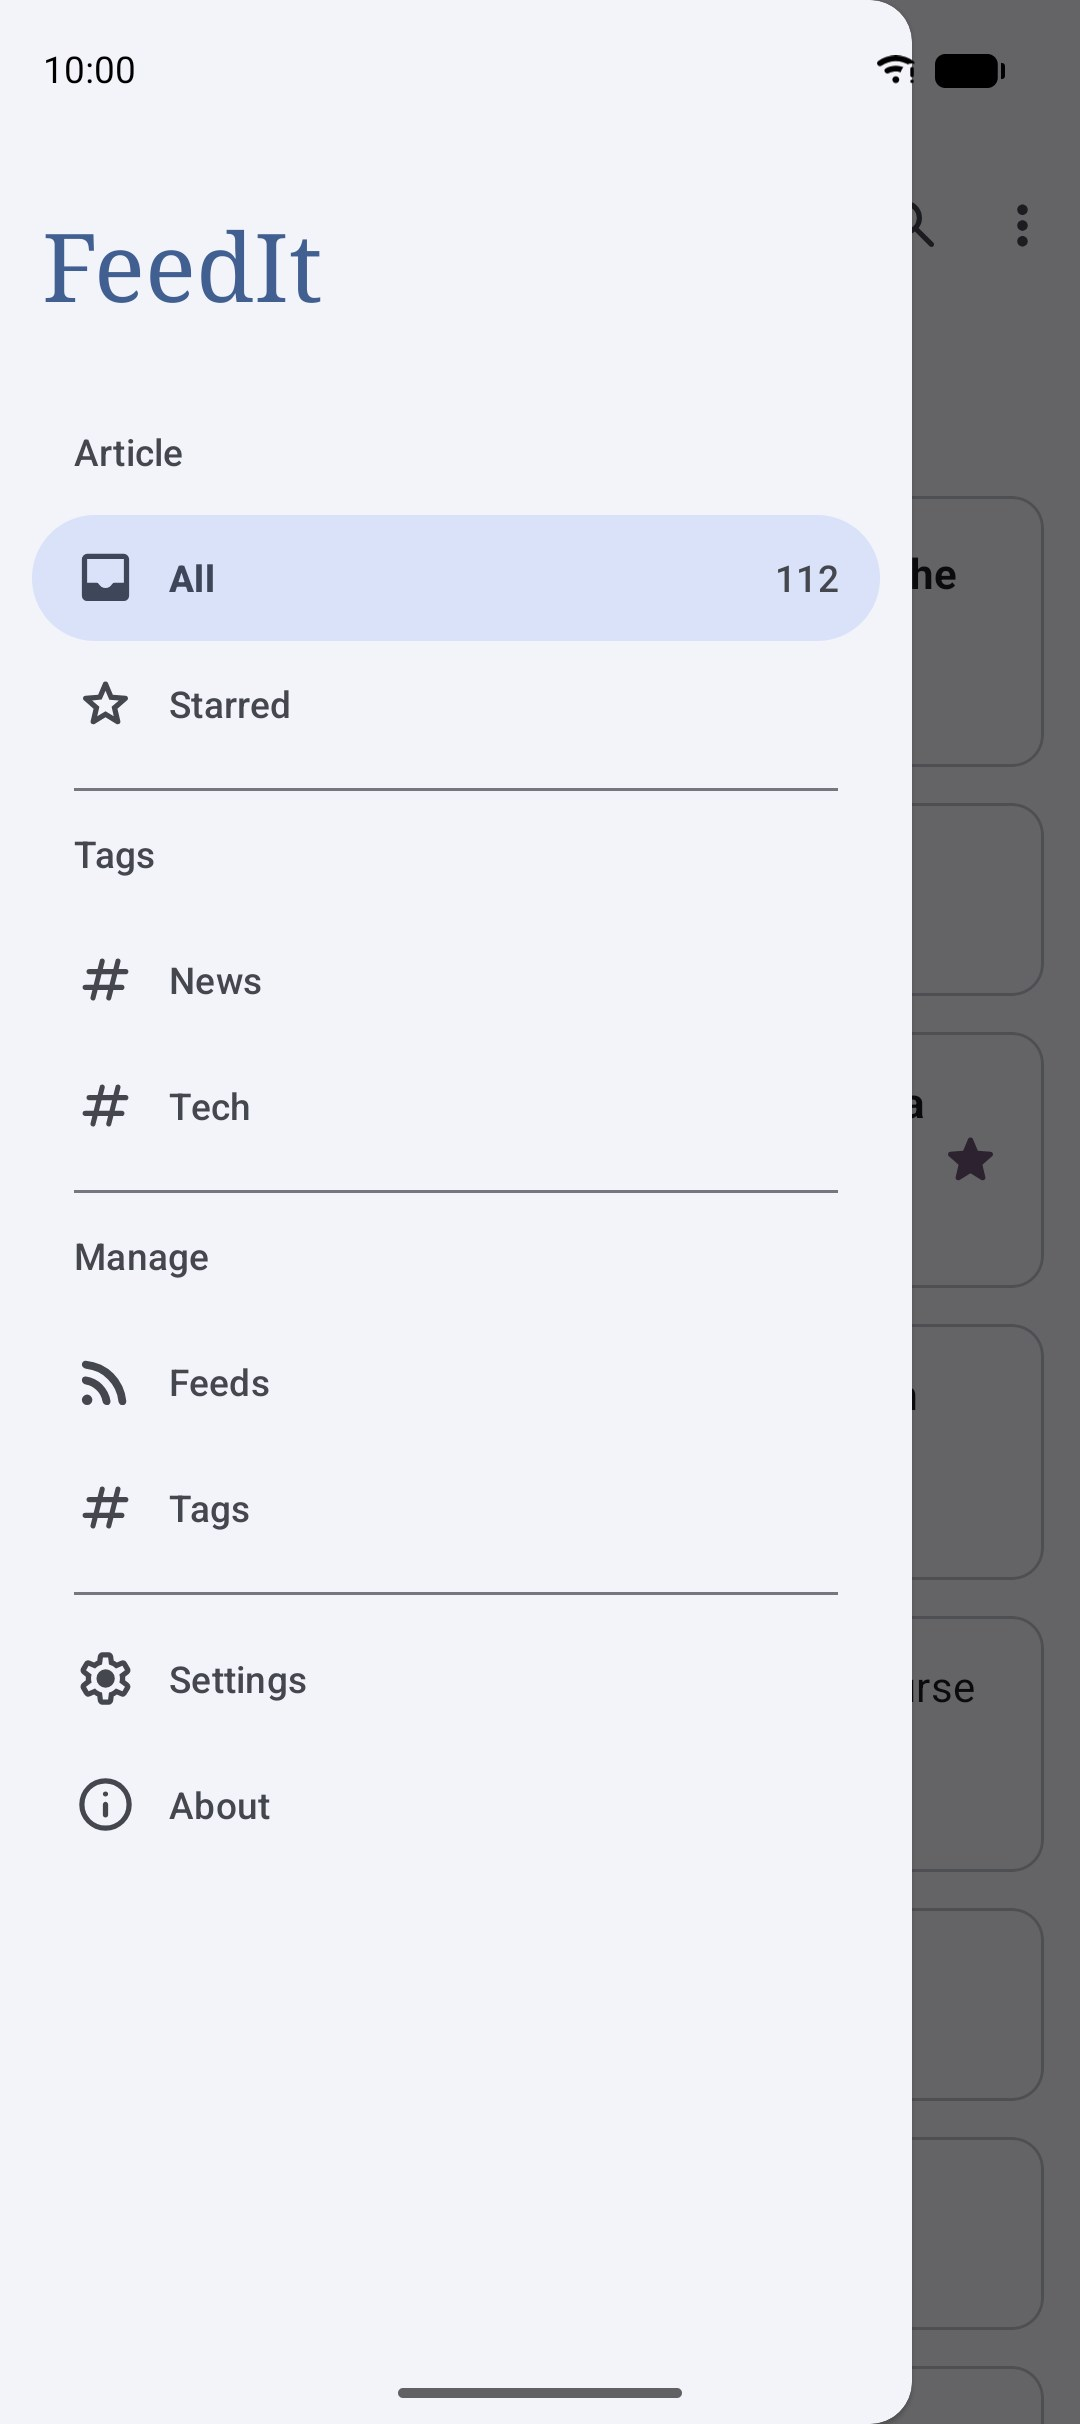
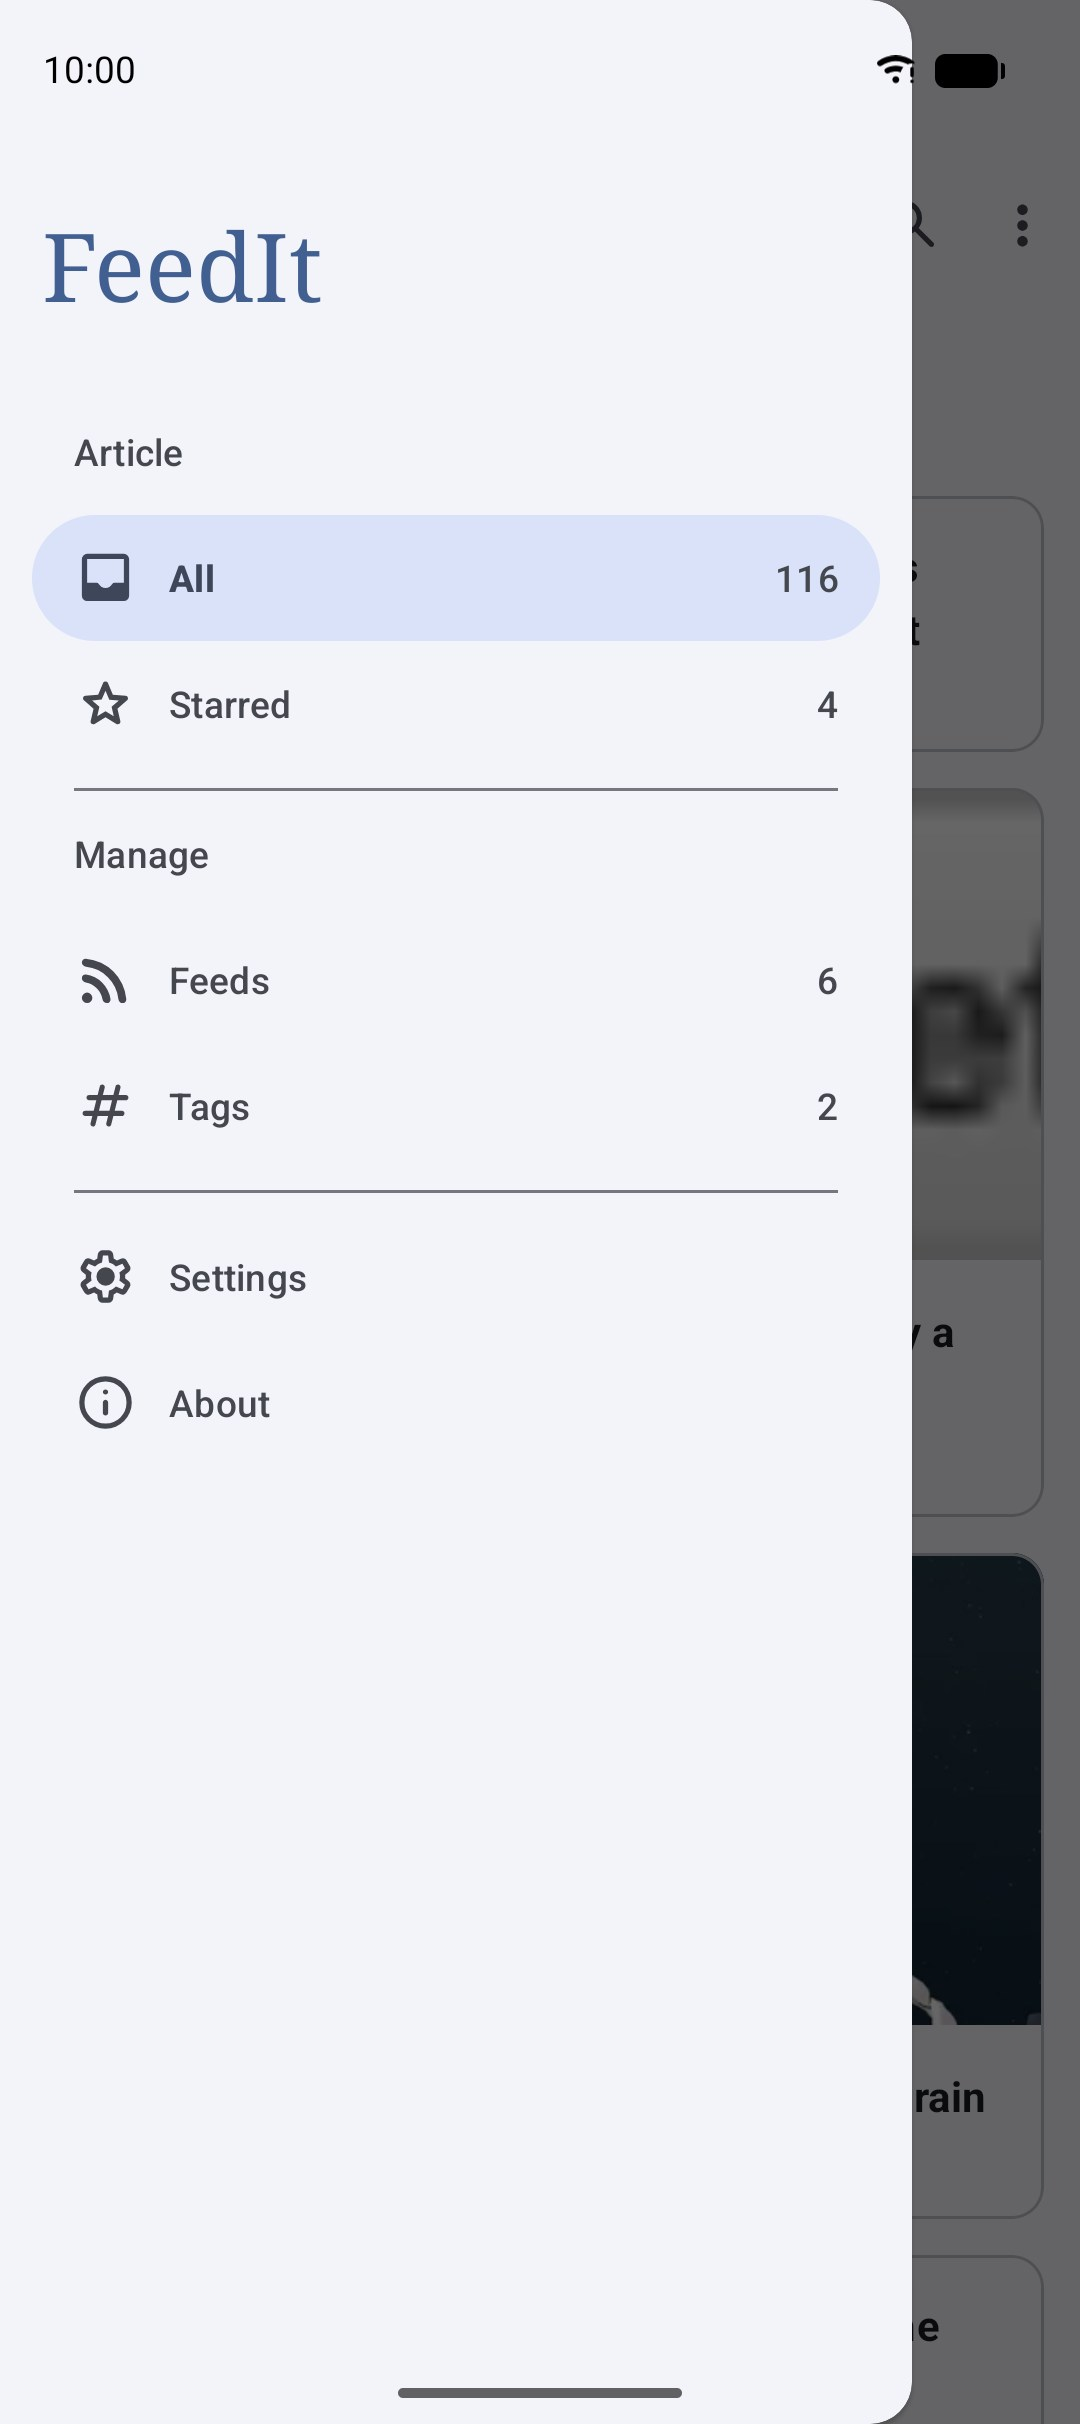
Replaced drawer tag list with counters for starred, feeds and tags

diff --git a/app/src/main/java/com/mowtiie/feedit/ui/activities/MainActivity.java b/app/src/main/java/com/mowtiie/feedit/ui/activities/MainActivity.java
@@ -66,11 +66,12 @@ public class MainActivity extends FeedItActivity implements ArticleAdapter.Liste
     private boolean skipNextResumeRefresh = true;
 
     private static final int FEED_ITEM_BASE = 0x10000000;
-    private static final int TAG_ITEM_BASE = 0x20000000;
+    private static final int FEED_ITEM_END = 0x20000000;
     private int selectedNavId = R.id.nav_all;
     private List<FeedTags> drawerFeeds = Collections.emptyList();
     private List<Tag> drawerTags = Collections.emptyList();
     private Map<Long, Integer> unreadCounts = new HashMap<>();
+    private int starredCount;
 
     private final ActivityResultLauncher<String> requestNotificationPermission =
             registerForActivityResult(new ActivityResultContracts.RequestPermission(), granted -> {
@@ -242,10 +243,6 @@ public class MainActivity extends FeedItActivity implements ArticleAdapter.Liste
             viewModel.selectStarred();
             setTitle(R.string.nav_starred);
             isOnAllScope = false;
-        } else if (id >= TAG_ITEM_BASE) {
-            viewModel.selectTag(id - TAG_ITEM_BASE);
-            setTitle(item.getTitle());
-            isOnAllScope = true;
         }
         selectedNavId = id;
         updateSearchHint();
@@ -347,6 +344,10 @@ public class MainActivity extends FeedItActivity implements ArticleAdapter.Liste
             unreadCounts = counts;
             rebuildDrawerLists();
         });
+        viewModel.getStarredCount().observe(this, count -> {
+            starredCount = count != null ? count : 0;
+            rebuildDrawerLists();
+        });
     }
 
     private void rebuildDrawerLists() {
@@ -356,20 +357,9 @@ public class MainActivity extends FeedItActivity implements ArticleAdapter.Liste
             totalUnread += count;
         }
         setBadge(menu.findItem(R.id.nav_all), totalUnread);
-
-        MenuItem tagsSection = menu.findItem(R.id.nav_section_tags);
-        tagsSection.setVisible(!drawerTags.isEmpty());
-        Menu tagsMenu = tagsSection.getSubMenu();
-        tagsMenu.removeGroup(R.id.group_tags);
-        for (Tag tag : drawerTags) {
-            MenuItem item = tagsMenu.add(R.id.group_tags, TAG_ITEM_BASE + (int) tag.getId(), Menu.NONE, tag.getName());
-            item.setIcon(R.drawable.ic_tag);
-            item.setCheckable(true);
-            setBadge(item, tagUnreadCount(tag.getId()));
-            if (item.getItemId() == selectedNavId) {
-                setTitle(tag.getName());
-            }
-        }
+        setBadge(menu.findItem(R.id.nav_starred), starredCount);
+        setBadge(menu.findItem(R.id.nav_manage_feeds), drawerFeeds.size());
+        setBadge(menu.findItem(R.id.nav_manage_tags), drawerTags.size());
 
         if (isFeedScope(selectedNavId)) {
             for (FeedTags ft : drawerFeeds) {
@@ -386,7 +376,7 @@ public class MainActivity extends FeedItActivity implements ArticleAdapter.Liste
     }
 
     private static boolean isFeedScope(int navId) {
-        return navId >= FEED_ITEM_BASE && navId < TAG_ITEM_BASE;
+        return navId >= FEED_ITEM_BASE && navId < FEED_ITEM_END;
     }
 
     private void uncheckDrawerItems() {
@@ -400,24 +390,6 @@ public class MainActivity extends FeedItActivity implements ArticleAdapter.Liste
                 }
             }
         }
-    }
-
-    private int countOrZero(long feedId) {
-        Integer count = unreadCounts.get(feedId);
-        return count != null ? count : 0;
-    }
-
-    private int tagUnreadCount(long tagId) {
-        int total = 0;
-        for (FeedTags ft : drawerFeeds) {
-            for (Tag tag : ft.getTags()) {
-                if (tag.getId() == tagId) {
-                    total += countOrZero(ft.getFeed().getId());
-                    break;
-                }
-            }
-        }
-        return total;
     }
 
     private void setBadge(MenuItem item, int count) {

diff --git a/app/src/main/java/com/mowtiie/feedit/data/FeedRepository.java b/app/src/main/java/com/mowtiie/feedit/data/FeedRepository.java
@@ -32,6 +32,7 @@ public class FeedRepository {
     private final MutableLiveData<List<FeedTags>> feedsWithTags = new MutableLiveData<>();
     private final MutableLiveData<List<Tag>> tags = new MutableLiveData<>();
     private final MutableLiveData<Map<Long, Integer>> unreadCounts = new MutableLiveData<>();
+    private final MutableLiveData<Integer> starredCount = new MutableLiveData<>();
 
     private FeedRepository(Context context) {
         DatabaseHelper dbHelper = DatabaseHelper.getInstance(context);
@@ -56,6 +57,7 @@ public class FeedRepository {
             List<Article> result = articleDao.getArticles(feedId, tagId, showRead, showUnread, starredOnly, searchQuery, sortOrder);
             articles.postValue(result);
             unreadCounts.postValue(articleDao.getUnreadCountsByFeed());
+            starredCount.postValue(articleDao.getStarredCount());
         });
     }
 
@@ -63,8 +65,15 @@ public class FeedRepository {
         return unreadCounts;
     }
 
+    public LiveData<Integer> getStarredCount() {
+        return starredCount;
+    }
+
     public void loadUnreadCounts() {
-        executor.execute(() -> unreadCounts.postValue(articleDao.getUnreadCountsByFeed()));
+        executor.execute(() -> {
+            unreadCounts.postValue(articleDao.getUnreadCountsByFeed());
+            starredCount.postValue(articleDao.getStarredCount());
+        });
     }
 
     public void setArticleRead(long articleId, boolean read) {
@@ -75,7 +84,10 @@ public class FeedRepository {
     }
 
     public void setArticleStarred(long articleId, boolean starred) {
-        executor.execute(() -> articleDao.setStarred(articleId, starred));
+        executor.execute(() -> {
+            articleDao.setStarred(articleId, starred);
+            starredCount.postValue(articleDao.getStarredCount());
+        });
     }
 
     public void setArticlesRead(Collection<Long> articleIds, boolean read) {

diff --git a/app/src/test/java/com/mowtiie/feedit/data/ArticleDaoTest.java b/app/src/test/java/com/mowtiie/feedit/data/ArticleDaoTest.java
@@ -148,6 +148,20 @@ public class ArticleDaoTest {
     }
 
     @Test
+    public void starredCount_tracksStarAndUnstar() {
+        List<Article> inserted = dao.insertAllOrIgnore(Arrays.asList(
+                article("a", 1L), article("b", 2L), article("c", 3L)));
+        assertEquals(0, dao.getStarredCount());
+
+        dao.setStarred(inserted.get(0).getId(), true);
+        dao.setStarred(inserted.get(1).getId(), true);
+        assertEquals(2, dao.getStarredCount());
+
+        dao.setStarred(inserted.get(0).getId(), false);
+        assertEquals(1, dao.getStarredCount());
+    }
+
+    @Test
     public void insertAllOrIgnore_skipsDuplicateGuids() {
         dao.insertAllOrIgnore(Collections.singletonList(article("a", 1L)));
 

diff --git a/app/src/main/java/com/mowtiie/feedit/ui/viewmodel/MainViewModel.java b/app/src/main/java/com/mowtiie/feedit/ui/viewmodel/MainViewModel.java
@@ -85,13 +85,6 @@ public class MainViewModel extends AndroidViewModel {
         refresh();
     }
 
-    public void selectTag(long tagId) {
-        scopeFeedId = null;
-        scopeTagId = tagId;
-        starredOnly = false;
-        refresh();
-    }
-
     public LiveData<List<FeedTags>> getFeeds() {
         return repository.getFeedsWithTags();
     }
@@ -102,6 +95,10 @@ public class MainViewModel extends AndroidViewModel {
 
     public LiveData<Map<Long, Integer>> getUnreadCounts() {
         return repository.getUnreadCounts();
+    }
+
+    public LiveData<Integer> getStarredCount() {
+        return repository.getStarredCount();
     }
 
     public boolean isFeedsLoaded() {

diff --git a/app/src/main/java/com/mowtiie/feedit/data/ArticleDao.java b/app/src/main/java/com/mowtiie/feedit/data/ArticleDao.java
@@ -104,6 +104,13 @@ public class ArticleDao {
         return counts;
     }
 
+    public int getStarredCount() {
+        SQLiteDatabase db = dbHelper.getReadableDatabase();
+        try (Cursor cursor = db.rawQuery("SELECT COUNT(*) FROM articles WHERE is_starred = 1", null)) {
+            return cursor.moveToFirst() ? cursor.getInt(0) : 0;
+        }
+    }
+
     /** Deletes unstarred articles published before the cutoff. Undated articles are never pruned. */
     public int deleteOlderThan(long cutoffMillis) {
         SQLiteDatabase db = dbHelper.getWritableDatabase();

diff --git a/README.md b/README.md
@@ -14,7 +14,7 @@ FeedIt is a simple, open-source RSS and Atom feed reader for Android. No account
 
 * **Free and Open Source:** Enjoy complete transparency and community-driven development.
 * **No Account, No Tracking:** There's no login, no analytics, and nothing phoning home beyond fetching the feeds you actually subscribed to. Everything you read, star, and organize stays in a local database on your device.
-* **Feed Management:** Add a feed by URL, with auto-discovery so pasting a site's homepage usually finds its feed for you. Organize with freeform tags (listed in the navigation drawer with unread counts), set each feed to open articles in-app or in your browser, and cancel a slow add at any time.
+* **Feed Management:** Add a feed by URL, with auto-discovery so pasting a site's homepage usually finds its feed for you. Organize with freeform tags, set each feed to open articles in-app or in your browser, and cancel a slow add at any time.
 * **Broad Format Support:** RSS 2.0, RSS 1.0, Atom, and JSON Feed, including YouTube and Mastodon feeds. Insecure `http://` feed links are upgraded to `https://`.
 * **Multiple Article Layouts:** List, Compact, Card, or Magazine. Pick the density and style that actually fits how you read, from a quick headline scan to a full-image-forward view.
 * **Search, Filter & Sort:** Full-text search, Unread/Read filter chips that remember your choice, a Starred view, and sorting by newest, oldest, unread-first, or by feed.
